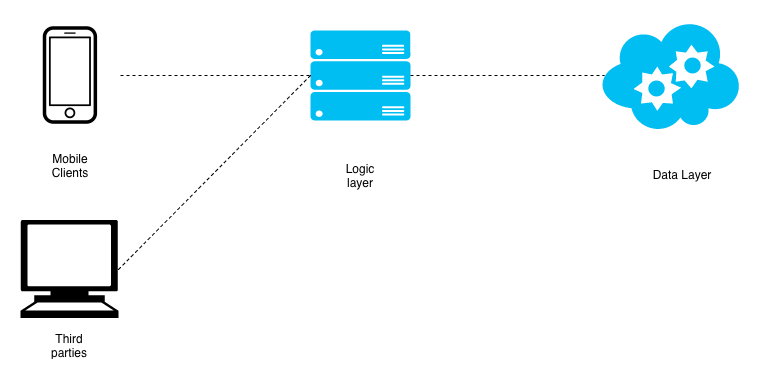
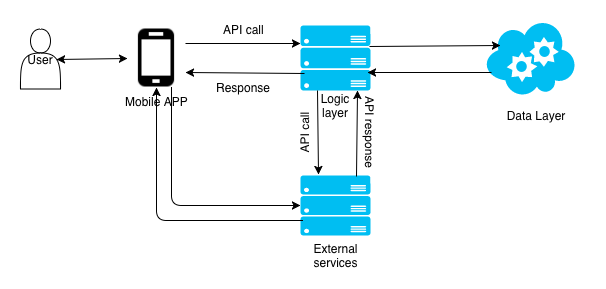
update figures and architetural section

diff --git a/DD/Architectural design.tex b/DD/Architectural design.tex
@@ -17,13 +17,15 @@ The system is going to be implemented with a three tier architecture. Tiers are 
 	\caption{Distribution of application's function among the tier}
 \end{figure}
 
-The decision of this kind of architecture has been taken in order to build the system in the most modular possibile way:
+The decision of this kind of architecture has been taken in order to build the system in the most modular possibile way. Here are described layer organisation:
 
 \begin{itemize}
-	\item \textit{Mobile clients}: users will be given with a iOS application which will be a view of the entire system.
-	\item \textit{Third parties}: third parties will be given with a light web interfaces to register/manage API access and they will be authorised to communicate with the system.
-	\item \textit{Logic layer}: logic layer will implement all the logic of the entire system, it will be host on premises machine.
-	\item \textit{Data layer}: data layer will be implemented in third party's cloud system.
+	\item Presentation layer:\begin{itemize}
+			\item \textit{Mobile clients}: users will be given with a iOS application which will be a view of the entire system.
+			\item \textit{Third parties}: third parties will be given with a light web interfaces to register/manage API access and they will be authorised to communicate with the system.
+			\end{itemize}
+	\item \textit{Logic layer}: logic layer will implement all the logic of the entire system and will handle communications between clients' app and the data layer.
+	\item \textit{Data layer}: data layer will be implemented in third party's cloud system and will keep persistent users' data.
 \end{itemize}
 
 The idea is to keep as separate as possibile the logic layer from the data layer in order to let the system grow in a modular fashion and let us change cloud data provider as the system's dimension grow with the minimum effort.
